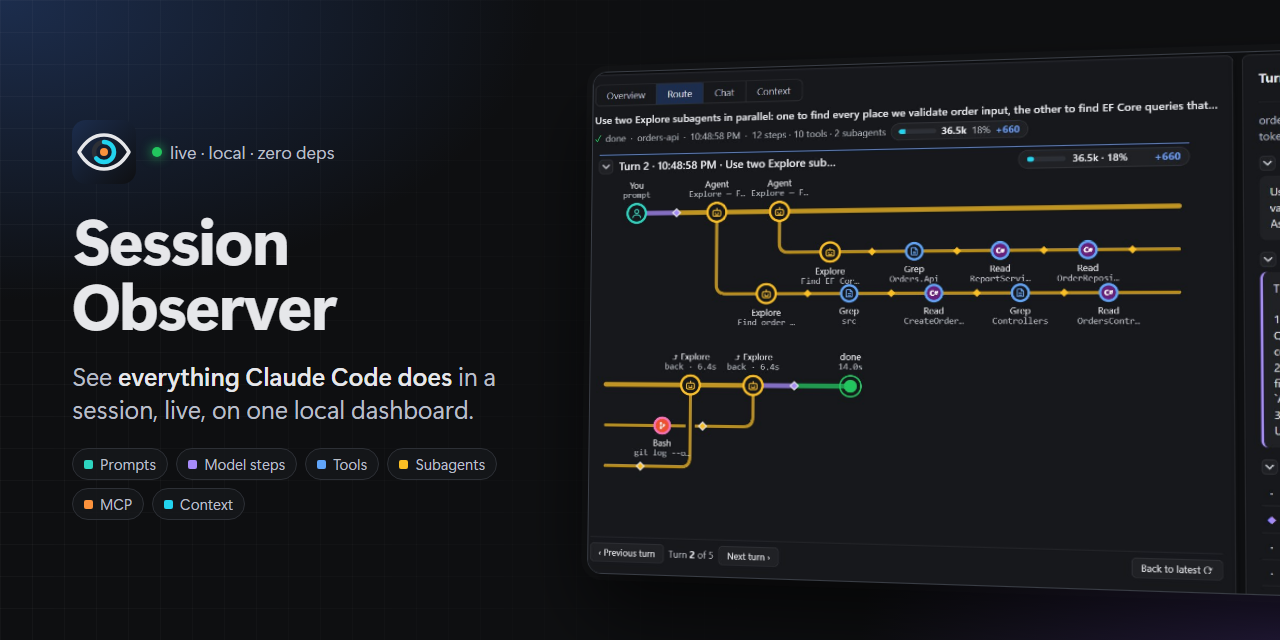
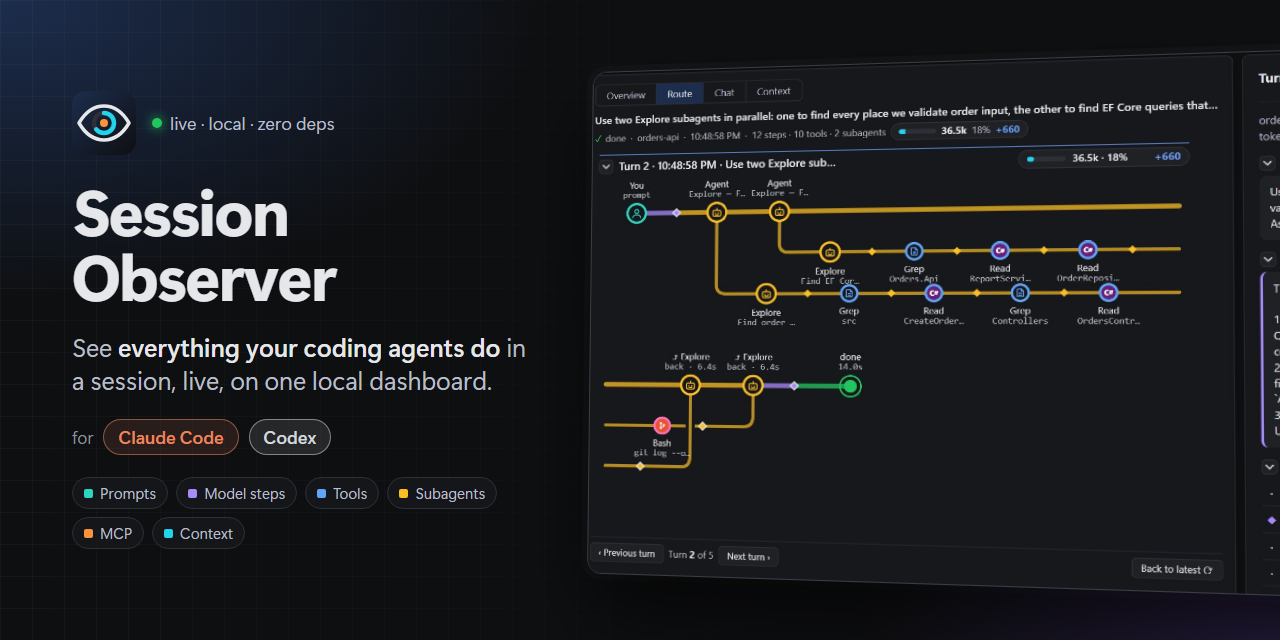
docs: name Codex on the repo cover
The tagline now covers both agents, and a "for Claude Code / Codex" row
uses the dashboard's agent badge colours. Re-rendered with render.js.

Changed region(s): [[0.0312, 0.1562, 0.4062, 0.8438]]

diff --git a/docs/brand/src/cover.html b/docs/brand/src/cover.html
@@ -24,6 +24,10 @@
   .chips { display: flex; flex-wrap: wrap; gap: 8px; }
   .chip { display: inline-flex; align-items: center; gap: 7px; padding: 5px 11px; border: 1px solid #2d3036; border-radius: 999px; background: #17181bcc; font-size: 15px; color: #b9bec7; }
   .chip i { width: 9px; height: 9px; border-radius: 2px; }
+  .agents { display: flex; align-items: center; gap: 10px; font-size: 17px; color: #8b919c; }
+  .agent { padding: 5px 14px; border: 1px solid; border-radius: 999px; font-size: 18px; font-weight: 600; }
+  .agent.claude { color: #e8875f; border-color: #e8875f8c; background: #e8875f1f; }
+  .agent.codex { color: #d4d7dd; border-color: #d4d7dd8c; background: #d4d7dd1f; }
   .shot { position: absolute; left: 590px; top: 70px; width: 820px; height: 500px; border-radius: 14px; overflow: hidden;
     border: 1px solid #3a3e46; box-shadow: 0 40px 80px #000a, 0 0 0 6px #ffffff06;
     transform: perspective(1800px) rotateY(-13deg) rotateX(3deg); transform-origin: left center; }
@@ -33,7 +37,8 @@
   <div class="left">
     <div class="brand"><img src="icon-eye.svg" alt=""><span class="live"><i></i>live · local · zero deps</span></div>
     <h1>Session<br>Observer</h1>
-    <p>See <b>everything Claude Code does</b> in a session, live, on one local dashboard.</p>
+    <p>See <b>everything your coding agents do</b> in a session, live, on one local dashboard.</p>
+    <div class="agents">for <span class="agent claude">Claude Code</span><span class="agent codex">Codex</span></div>
     <div class="chips">
       <span class="chip"><i style="background:#2dd4bf"></i>Prompts</span>
       <span class="chip"><i style="background:#a78bfa"></i>Model steps</span>
